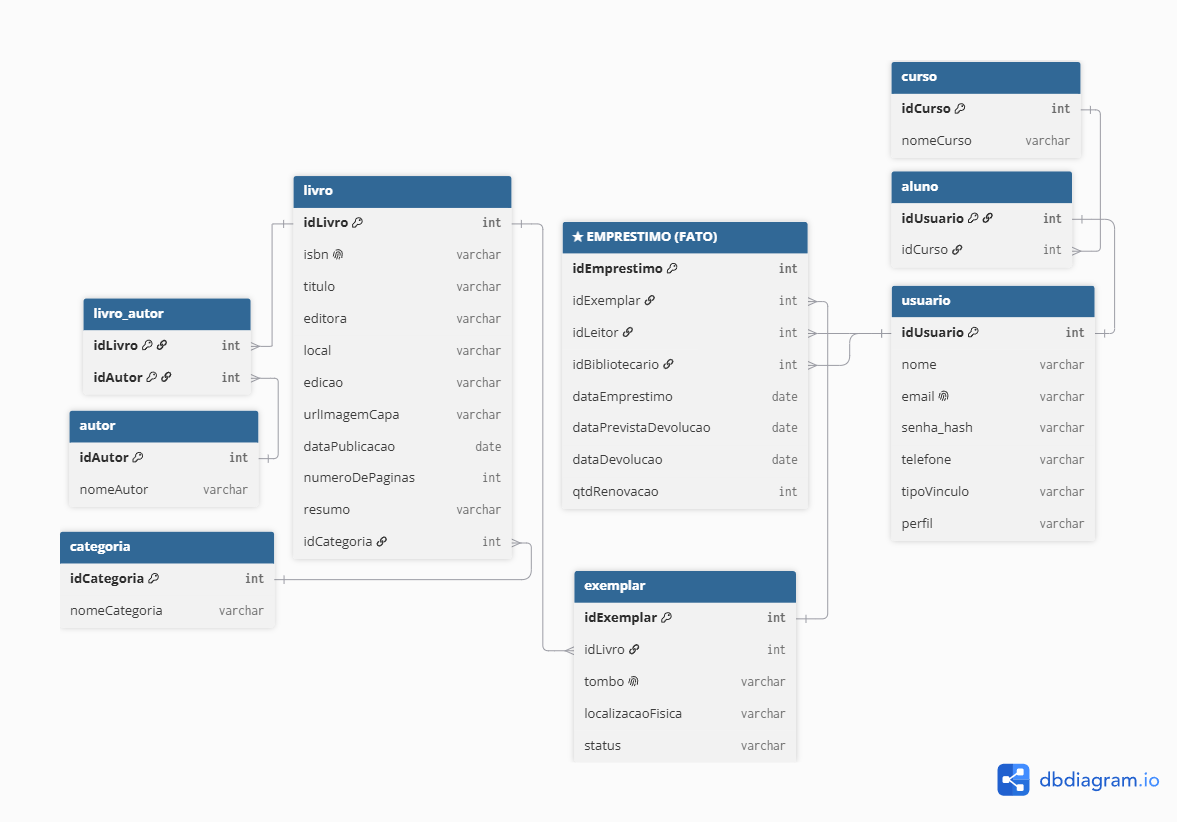
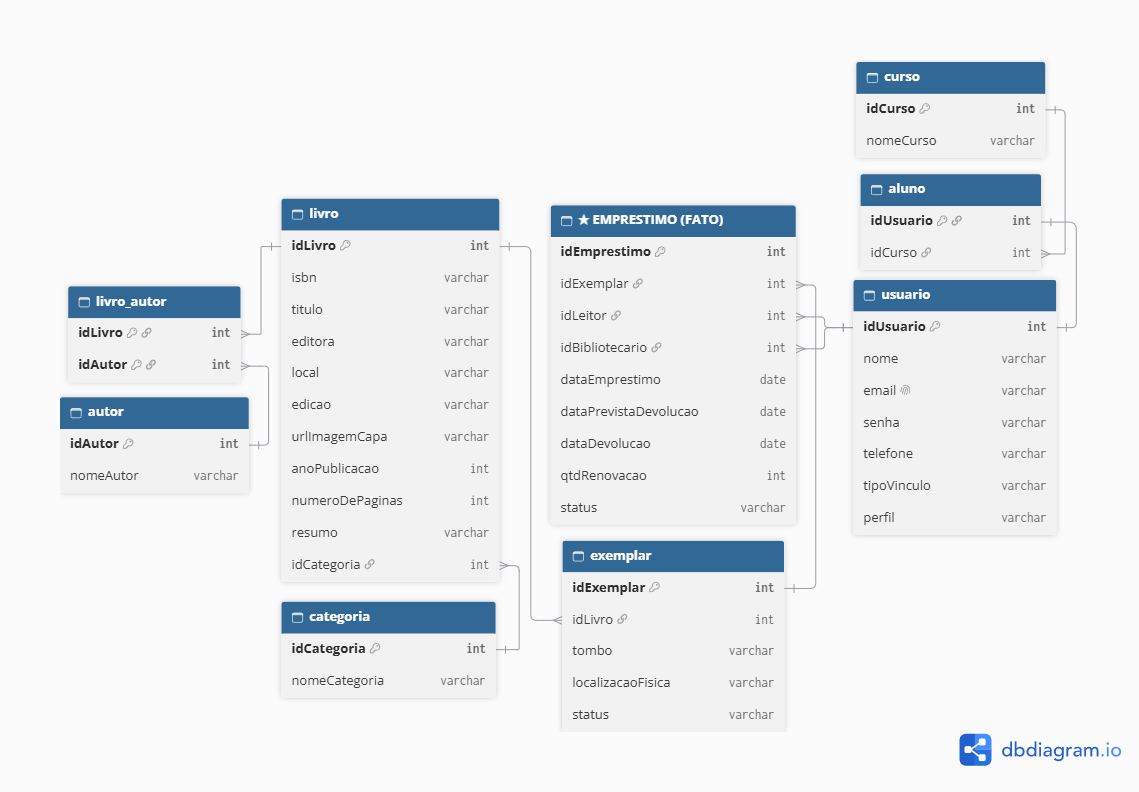
refactor(backend): t/docsrocar data de publicação por ano de publicação

diff --git a/backend/src/main/java/br/edu/fatec/libee/backend/service/BookService.java b/backend/src/main/java/br/edu/fatec/libee/backend/service/BookService.java
@@ -51,7 +51,7 @@ public class BookService {
                 b.getId(),
                 b.getTitle(),
                 b.getAuthors().stream().map(Author::getName).sorted().toList(),
-                b.getPublicationDate() != null ? b.getPublicationDate().getYear() : null,
+                b.getPublicationYear(),
                 b.getCategory().getName(),
                 b.getCoverImageUrl(),
                 available);
@@ -77,7 +77,7 @@ public class BookService {
                 b.getPublisher(),
                 b.getPublicationPlace(),
                 b.getEdition(),
-                b.getPublicationDate() != null ? b.getPublicationDate().getYear() : null,
+                b.getPublicationYear(),
                 b.getPageCount(),
                 b.getSummary(),
                 copyResponses,

diff --git a/backend/src/test/java/br/edu/fatec/libee/backend/controller/BookControllerIT.java b/backend/src/test/java/br/edu/fatec/libee/backend/controller/BookControllerIT.java
@@ -433,7 +433,7 @@ public class BookControllerIT {
         b.setPublicationPlace("São Paulo");
         b.setEdition("2ª edição");
         b.setCoverImageUrl("https://example.com/covers/estruturas.jpg");
-        b.setPublicationDate(LocalDate.of(2021, 3, 15));
+        b.setPublicationYear(2021);
         b.setPageCount(480);
         b.setSummary("Introdução a listas, pilhas, filas, árvores e grafos, com exemplos em Java.");
         b.setCategory(category);

diff --git a/backend/src/main/java/br/edu/fatec/libee/backend/entity/Book.java b/backend/src/main/java/br/edu/fatec/libee/backend/entity/Book.java
@@ -37,8 +37,8 @@ public class Book {
     @Column(name = "cover_image_url")
     private String coverImageUrl;
 
-    @Column(name = "publication_date")
-    private LocalDate publicationDate;
+    @Column(name = "publication_year")
+    private Integer publicationYear;
 
     @Column(name = "page_count")
     private Integer pageCount;

diff --git a/docs/test-data/README.md b/docs/test-data/README.md
@@ -29,7 +29,8 @@ JSON  ←  API                                      ←  linha no banco
 
 ## Convenções
 
-- Datas no formato: `yyyy-MM-dd`.
+- Datas no formato: `yyyy-MM-dd` (por exemplo, datas de empréstimo e devolução).
+- A entidade `Book` usa `publicationYear` como inteiro representando o ano de publicação; não existe mais `publicationDate` no payload de livro.
 - Relações entre registros por id (`categoryId`, `copyId`, `readerId`...), como no banco.
 - A relação entre livros e autores aparece em `books.json` como `authorIds` (no banco, é a tabela `book_author`).
 
